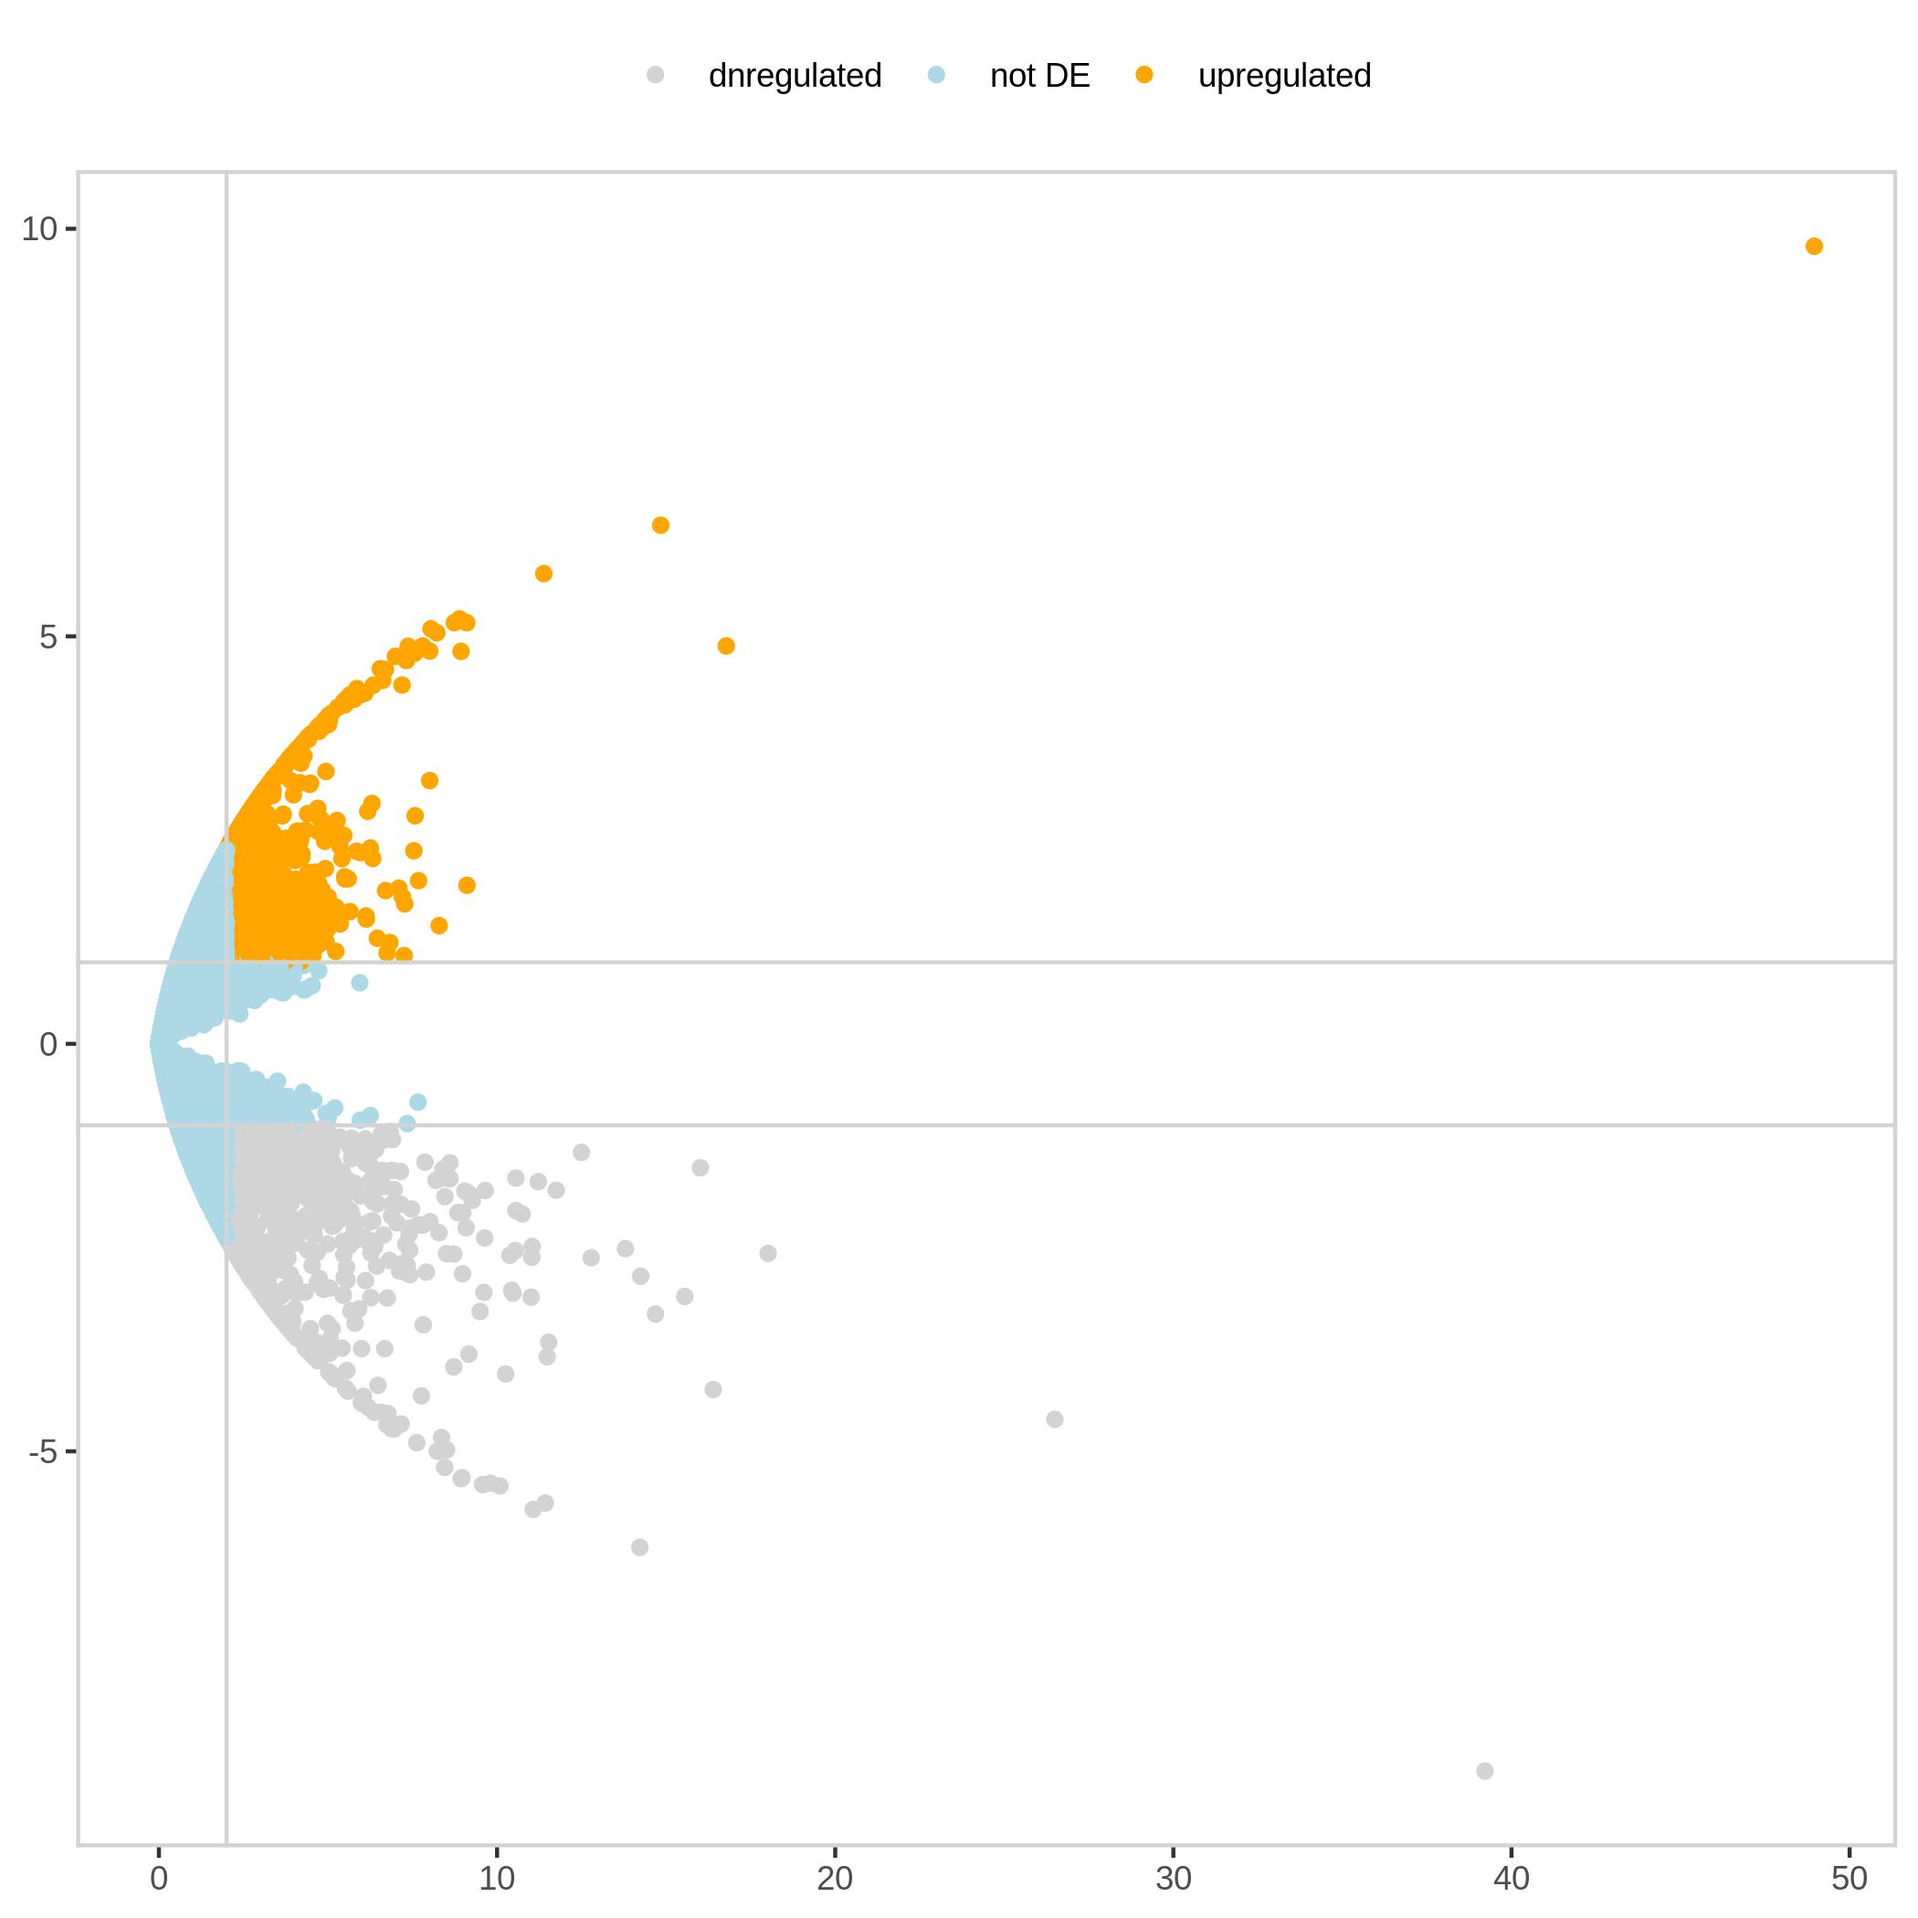
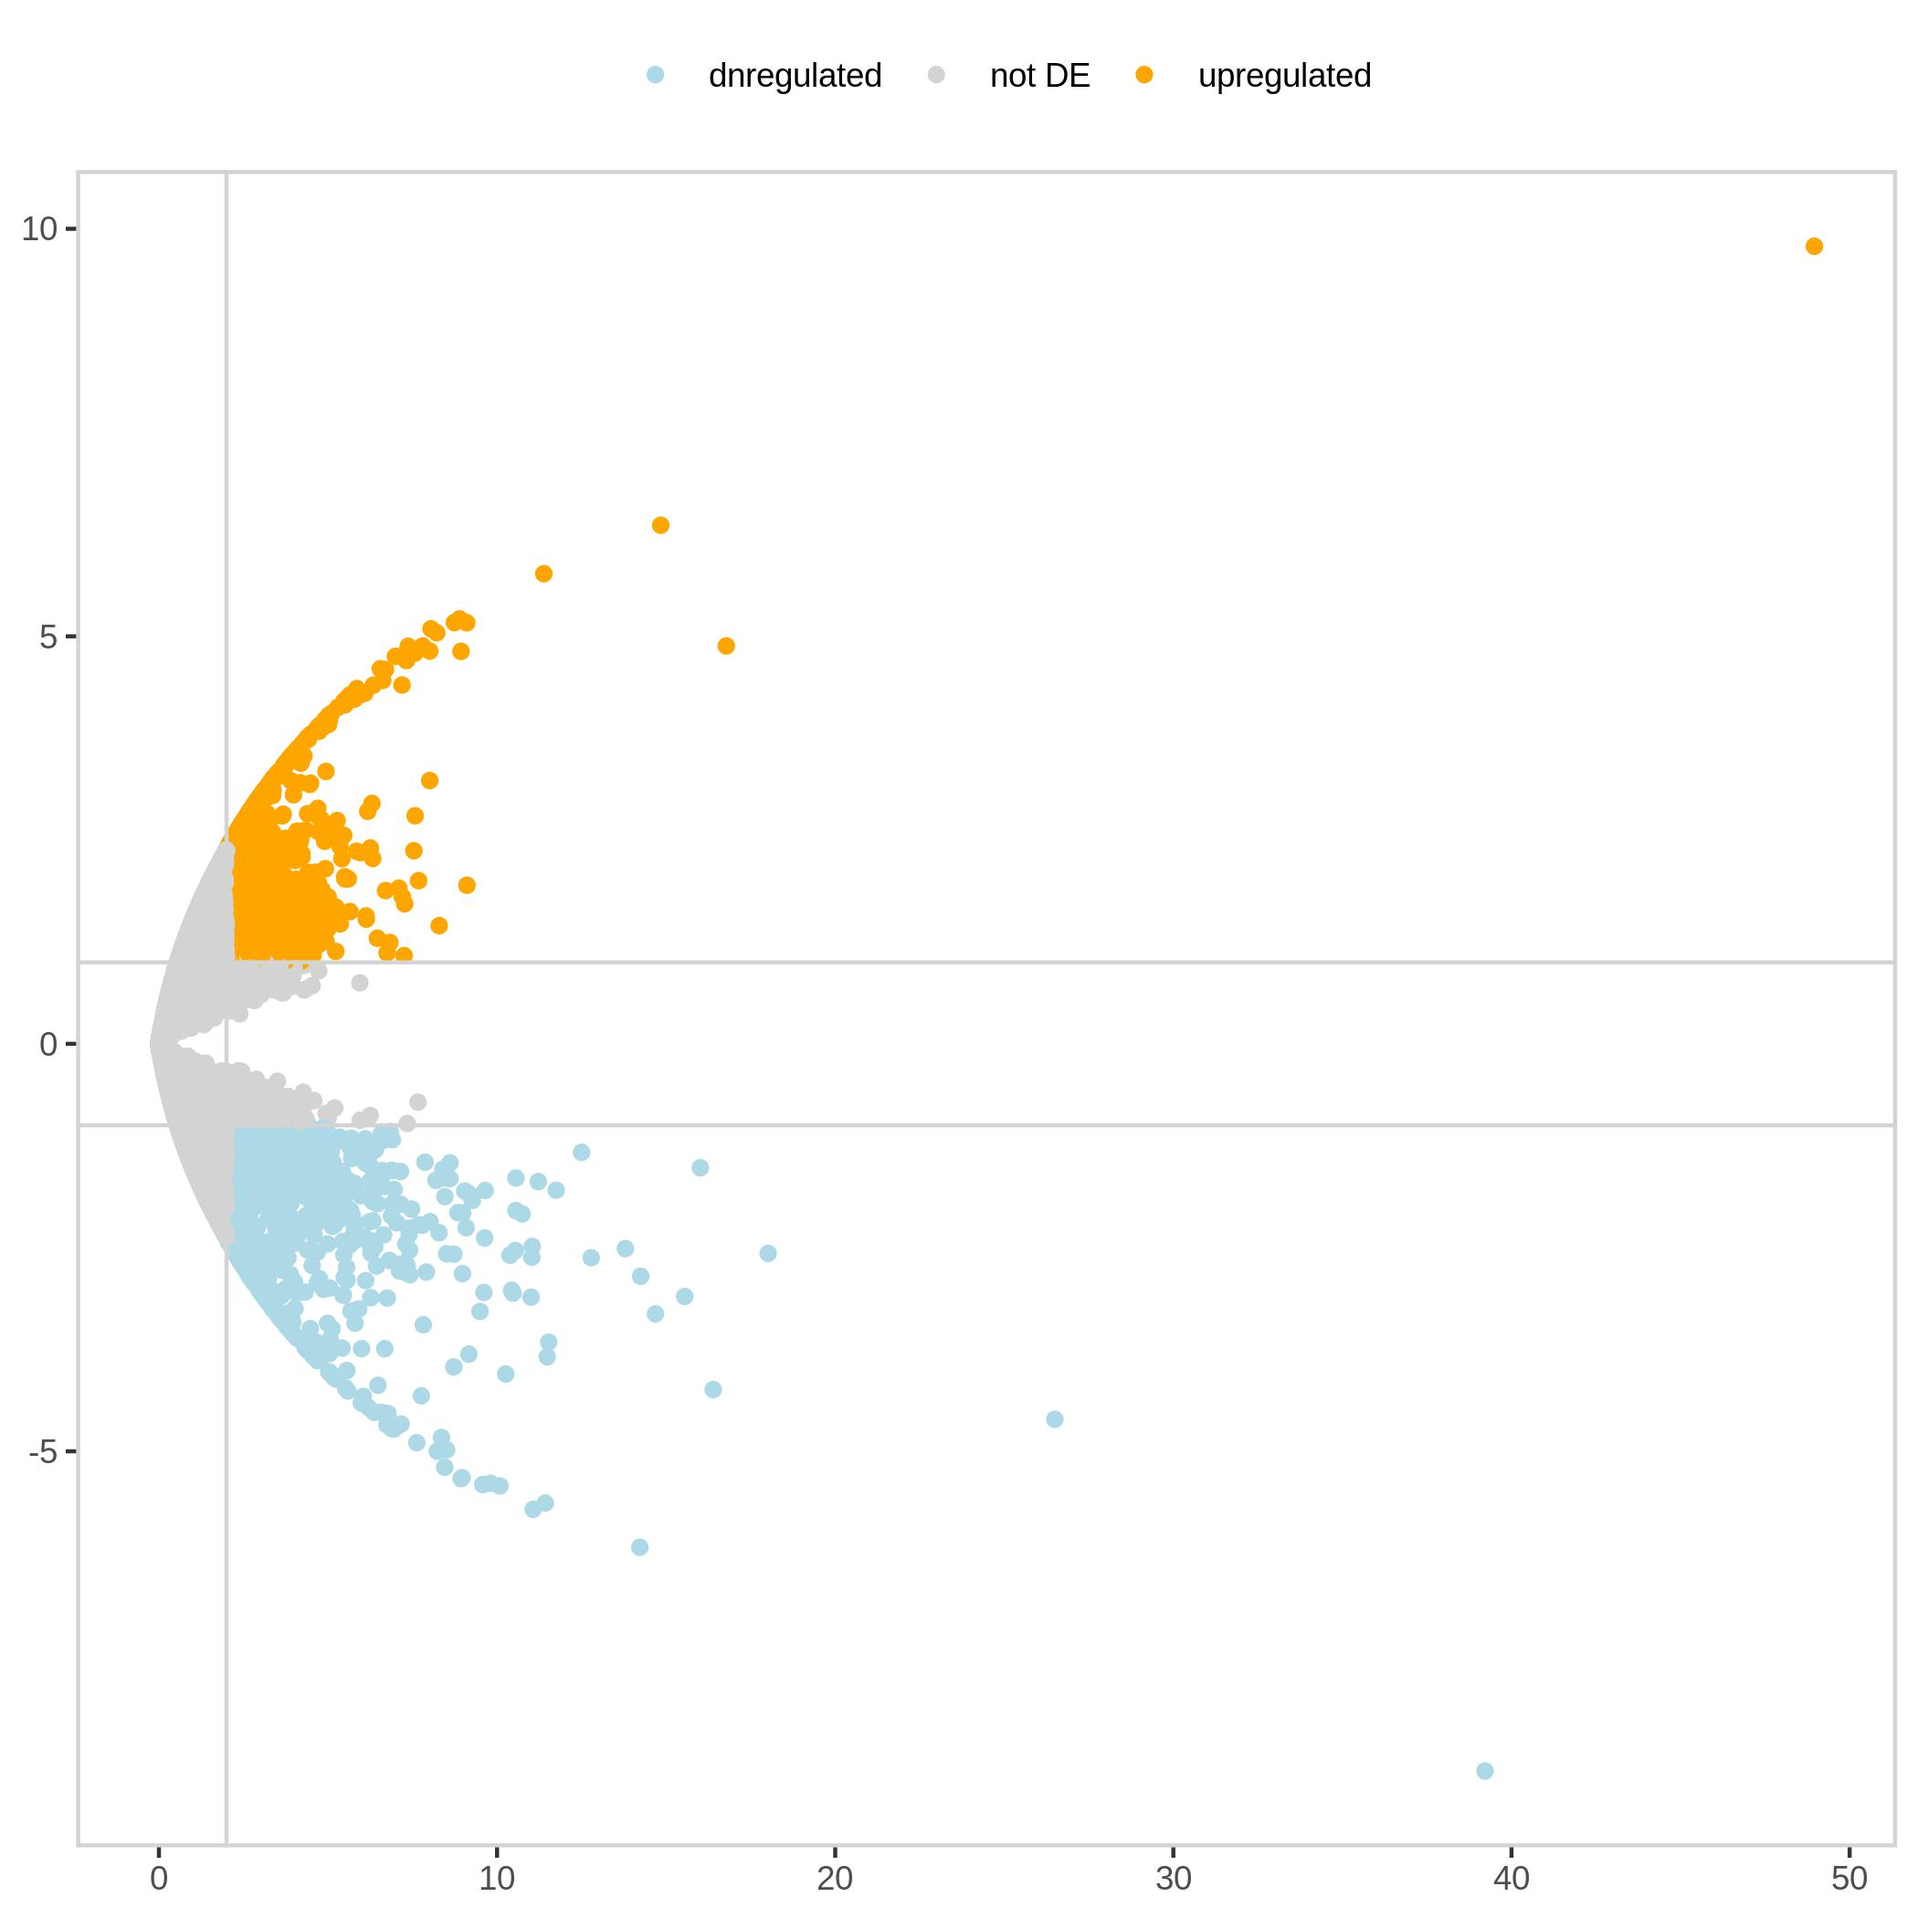
commit

diff --git a/markdowns/part_5.md b/markdowns/part_5.md
@@ -37,7 +37,7 @@ The the GO enrichment analysisis is performed using the following commands:
 
 ```
 Rscript scripts/GO_enrichment.Rscript enrichment/GO_vicia/GO_vicia_geneUniverse 
-abundances/vicia/vicia_deseq_gene/ BP 3 weight fisher 0.05 enrichment/GO_vicia/
+abundances/vicia/vicia_deseq_gene/ BP 10 elim fisher 0.05 enrichment/GO_vicia/
 ```
 
 
@@ -167,7 +167,8 @@ here are some examples for:
 
 
 ```
-Rscript scripts/GO_extract.Rscript enrichment/GO_vicia/enrichment.Rdata GO:0010200 abundances/vicia/vicia_deseq_gene/vicia_DN_genes.lst
+Rscript scripts/GO_extract.Rscript enrichment/GO_vicia/enrichment.Rdata 
+GO:0010200 abundances/vicia/vicia_deseq_gene/vicia_DN_genes.lst
 ```
 
 
@@ -182,7 +183,8 @@ Rscript scripts/GO_extract.Rscript enrichment/GO_vicia/enrichment.Rdata GO:00102
 
 
 ```
-Rscript scripts/GO_extract.Rscript enrichment/GO_crema/enrichment.Rdata GO:0042811 abundances/crema/crema_WGCNA_gene/AD_module_3_genes.lst
+Rscript scripts/GO_extract.Rscript enrichment/GO_crema/enrichment.Rdata 
+GO:0042811 abundances/crema/crema_WGCNA_gene/AD_module_3_genes.lst
 ```
 
 

diff --git a/markdowns/part_3.md b/markdowns/part_3.md
@@ -101,7 +101,7 @@ can be retrieved using:
 
 
 ```
-Rscript scripts/DE_genes.Rscript 0.05 1.5 
+Rscript scripts/DE_genes.Rscript 0.01 1 
 abundances/vicia/vicia_deseq_gene/RSEM_vicia.filtered.gene.counts.matrix.n_vs_v.DESeq2.DE_results 
 abundances/vicia/vicia_deseq_gene/vicia_UP_genes.lst  
 abundances/vicia/vicia_deseq_gene/vicia_DN_genes.lst 
